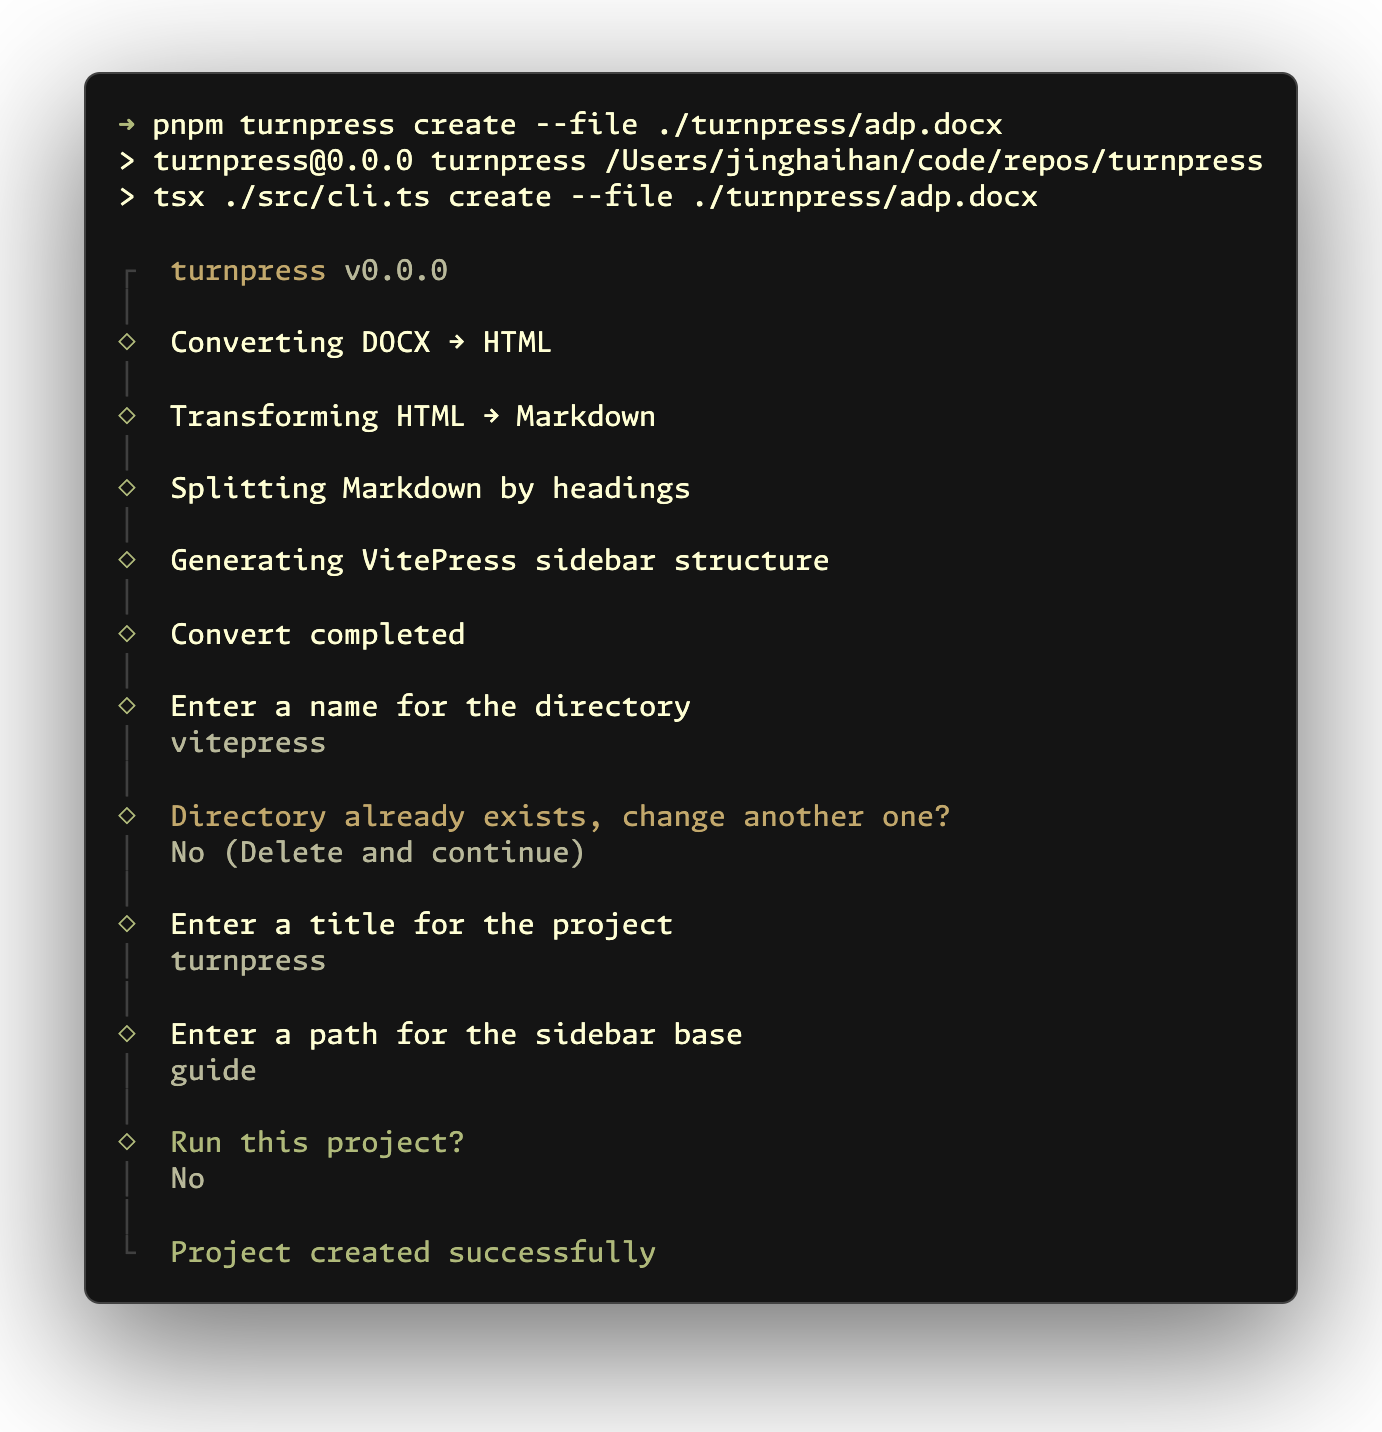
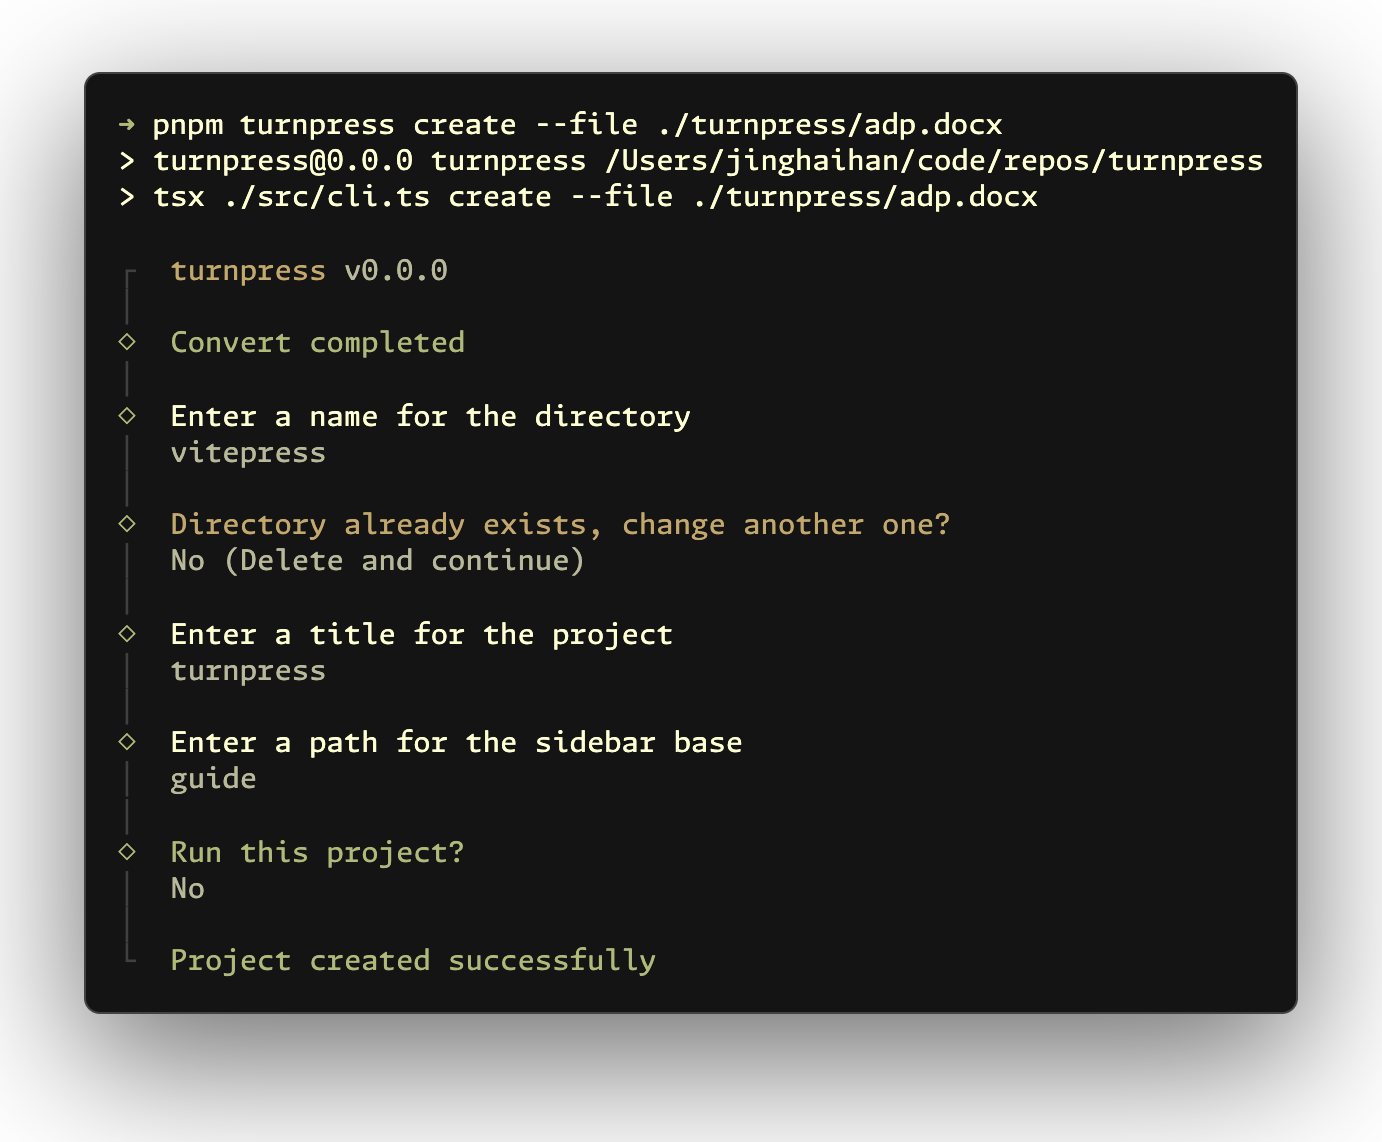
feat: format markdown output

diff --git a/src/cli.ts b/src/cli.ts
@@ -1,14 +1,13 @@
 import type { CAC } from 'cac'
-import type { CommandOptions, FileType, Options, RangeMode } from './types'
+import type { CommandOptions, FileType, Options, RangeMode, Spinner } from './types'
 import process from 'node:process'
 import * as p from '@clack/prompts'
 import c from 'ansis'
 import { cac } from 'cac'
 import { resolve } from 'pathe'
-import { version } from '../package.json'
 import { cleanTempFiles } from './cleaner'
 import { resolveConfig } from './config'
-import { MODE_CHOICES, TEMP_MARKDOWN } from './constants'
+import { MODE_CHOICES, NAME, TEMP_MARKDOWN, VERSION } from './constants'
 import { convertDocxToHtml, convertHtmlToMarkdown } from './converter'
 import { create } from './create'
 import { markdownMediaExtractor } from './extractor'
@@ -19,16 +18,16 @@ import { copy } from './utils'
 try {
   const cli: CAC = cac('turnpress')
 
-  const prepare: Record<FileType, (options: Options) => Promise<void>> = {
-    docx: async (options: Options) => {
-      p.log.step('Converting DOCX → HTML')
+  const prepare: Record<FileType, (options: Options, spinner: Spinner) => Promise<void>> = {
+    docx: async (options, spinner) => {
+      spinner.message('Converting DOCX → HTML')
       await convertDocxToHtml(options)
 
-      p.log.step('Transforming HTML → Markdown')
+      spinner.message('Transforming HTML → Markdown')
       await convertHtmlToMarkdown(options)
     },
-    md: async (options: Options) => {
-      p.log.step('Copying Markdown → Workspace')
+    md: async (options, spinner) => {
+      spinner.message('Copying Markdown → Workspace')
       await copy(resolve(process.cwd(), options.md), resolve(options.workspace, TEMP_MARKDOWN))
 
       await markdownMediaExtractor(options)
@@ -51,34 +50,38 @@ try {
         options.mode = mode
       }
 
-      p.intro(`${c.yellow`turnpress `}${c.dim`v${version}`}`)
+      p.intro(`${c.yellow`${NAME} `}${c.dim`v${VERSION}`}`)
+
+      const spinner = p.spinner()
+      spinner.start()
 
       const config = await resolveConfig(options)
-      await prepare[config.type](config)
+      await prepare[config.type](config, spinner)
 
-      p.log.step('Splitting Markdown by headings')
+      spinner.message('Splitting Markdown by headings')
       const nested = await splitMarkdown(config)
 
-      p.log.step('Generating VitePress sidebar structure')
+      spinner.message('Generating VitePress sidebar structure')
       await generateSidebar(nested, config)
 
       if (config.clean) {
-        p.log.step('Cleaning temporary files')
+        spinner.message('Cleaning temporary files')
         await cleanTempFiles(config)
       }
 
       if (config.mode === 'convert') {
-        p.outro('Convert completed')
+        spinner.stop(c.green('Convert completed'))
+        p.outro('Done')
         process.exit(0)
       }
       else {
-        p.log.step('Convert completed')
+        spinner.stop(c.green('Convert completed'))
         await create(config)
       }
     })
 
   cli.help()
-  cli.version(version)
+  cli.version(VERSION)
   cli.parse()
 }
 catch (error) {

diff --git a/src/converter.ts b/src/converter.ts
@@ -1,3 +1,4 @@
+/* eslint-disable regexp/no-dupe-disjunctions */
 import type { Options } from './types'
 import { mkdir, readFile, writeFile } from 'node:fs/promises'
 import process from 'node:process'
@@ -86,12 +87,22 @@ export async function convertHtmlToMarkdown(options: Options) {
 
   const markdown = turndownService.turndown($.html())
 
-  await writeFile(resolve(workspace, TEMP_MARKDOWN), normalizeMarkdown(markdown))
+  await writeFile(resolve(workspace, TEMP_MARKDOWN), await normalizeMarkdown(markdown))
 }
 
-export function normalizeMarkdown(markdown: string) {
-  return markdown
+export async function normalizeMarkdown(markdown: string) {
+  const content = markdown
     .replace(/^[ \t]+(<img[^>]*>)$/gm, '$1') // trim leading spaces for images that are on their own line
-    // eslint-disable-next-line regexp/no-dupe-disjunctions
-    .replace(/^[ \t]+(?![`*\-+>\d\s]|```)/gm, '') // trim leading spaces for text lines (but preserve code blocks, lists, and blockquotes)
+    .replace(/^[ \t]+(?![`*\-+>\d.\s]|```)/gm, '') // trim leading spaces for text lines (but preserve code blocks, lists, and blockquotes)
+    .replace(/^[ \t]+(\d+、)/gm, '$1') // remove leading spaces before Chinese enumeration like "1、"
+    .replace(/^(\s*)(\d+)、\s*/gm, '$1$2. ') // convert Chinese enumeration "1、" to markdown numbered list "1."
+    .replace(/^(>\s*)\\?\*/gm, '$1') // remove asterisk (escaped or not) after blockquote marker
+
+  try {
+    const { default: prettier } = await import('prettier')
+    return await prettier.format(content, { parser: 'markdown' })
+  }
+  catch {
+    return content
+  }
 }

diff --git a/src/constants.ts b/src/constants.ts
@@ -1,5 +1,10 @@
 import type { CommandOptions } from './types'
 import process from 'node:process'
+import pkgJson from '../package.json'
+
+export const NAME = pkgJson.name
+
+export const VERSION = pkgJson.version
 
 export const __dirname = new URL('.', import.meta.url).pathname
 
@@ -19,6 +24,6 @@ export const TEMP_MARKDOWN = '__temp.md'
 export const TEMP_HTML = '__temp.html'
 export const TEMP_FILES = [TEMP_MARKDOWN, TEMP_HTML]
 
-export const DEFAULT_PROJECT_NAME = 'docs'
-export const DEFAULT_PROJECT_TITLE = 'vitepress'
+export const DEFAULT_PROJECT_NAME = 'vitepress'
+export const DEFAULT_PROJECT_TITLE = 'turnpress'
 export const DEFAULT_SIDEBAR_PATH = 'guide'

diff --git a/build.config.ts b/build.config.ts
@@ -7,4 +7,18 @@ export default defineBuildConfig({
   ],
   declaration: 'node16',
   clean: true,
+  rollup: {
+    inlineDependencies: true,
+    json: {
+      compact: true,
+      namedExports: false,
+      preferConst: true,
+    },
+    commonjs: {
+      requireReturnsDefault: 'auto',
+    },
+    dts: {
+      respectExternal: false,
+    },
+  },
 })

diff --git a/src/types.ts b/src/types.ts
@@ -55,3 +55,9 @@ export interface Image {
   path: string
   alt: string
 }
+
+export interface Spinner {
+  start: (msg?: string) => void
+  stop: (msg?: string, code?: number) => void
+  message: (msg?: string) => void
+}

diff --git a/README.md b/README.md
@@ -14,15 +14,12 @@ TurnPress is a CLI tool that converts both Markdown (.md) and Word (.docx) files
 npx turnpress --docx ./test.docx
 ```
 
-<p align='center'>
-<img src='./assets/screenshot.png' />
-</p>
+<div align="center">
+  <img src="/assets/turnpress.gif" alt="gif" width="45%">
+  <img src="/assets/screenshot.png" alt="png" width="50%">
+</div>
 
 ## Features
-
-<p align='center'>
-<img src='./assets/help.png' />
-</p>
 
 ### Convert
 
@@ -71,6 +68,10 @@ export default defineConfig({
 ```
 
 You can also use command-line options to customize behavior:
+
+<p align='center'>
+<img src='./assets/help.png' />
+</p>
 
 - **`--file, -f <path>`**: Input file path (auto-detects file type)
 - **`--docx <path>`**: Path to the `.docx` file
